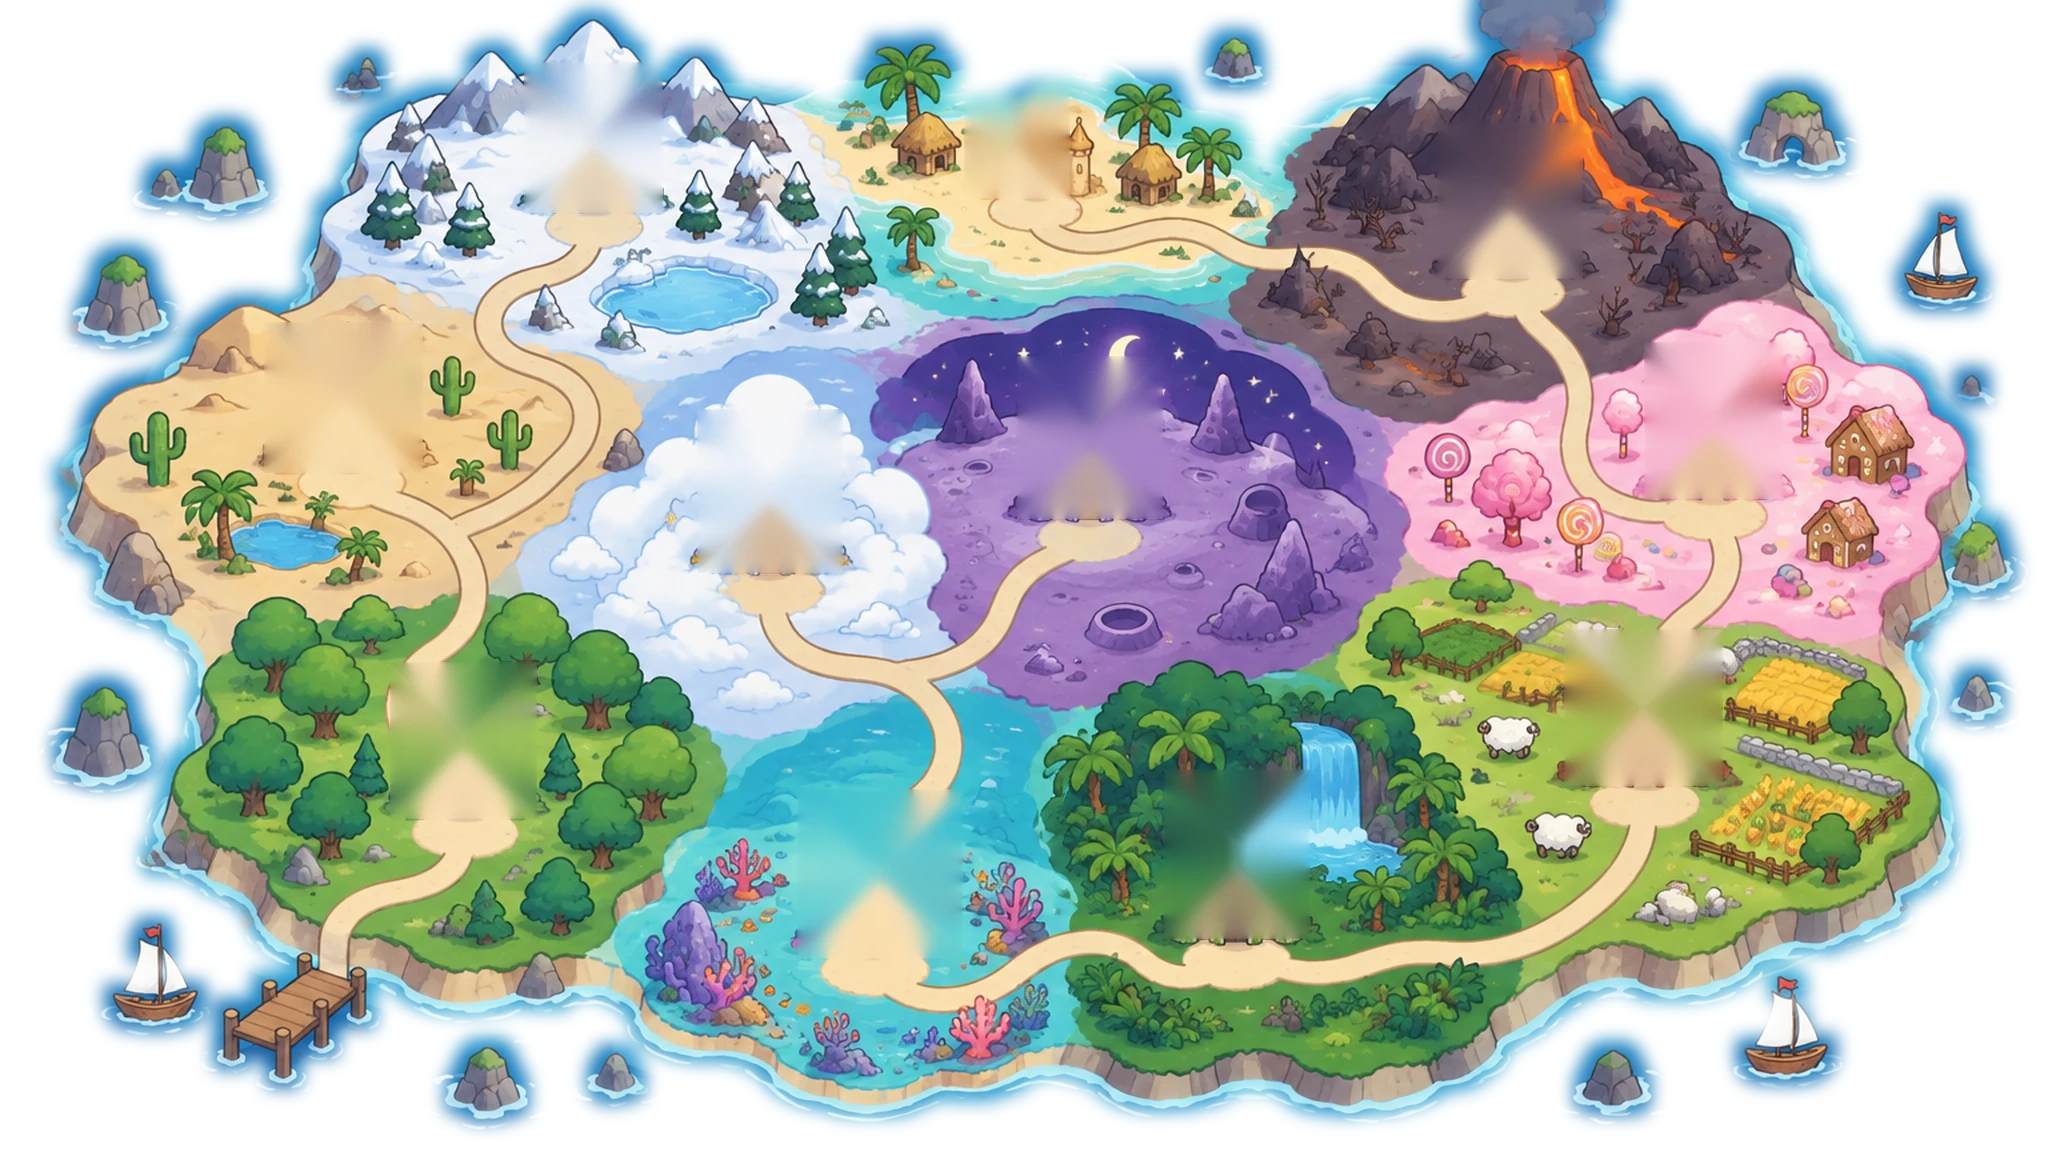
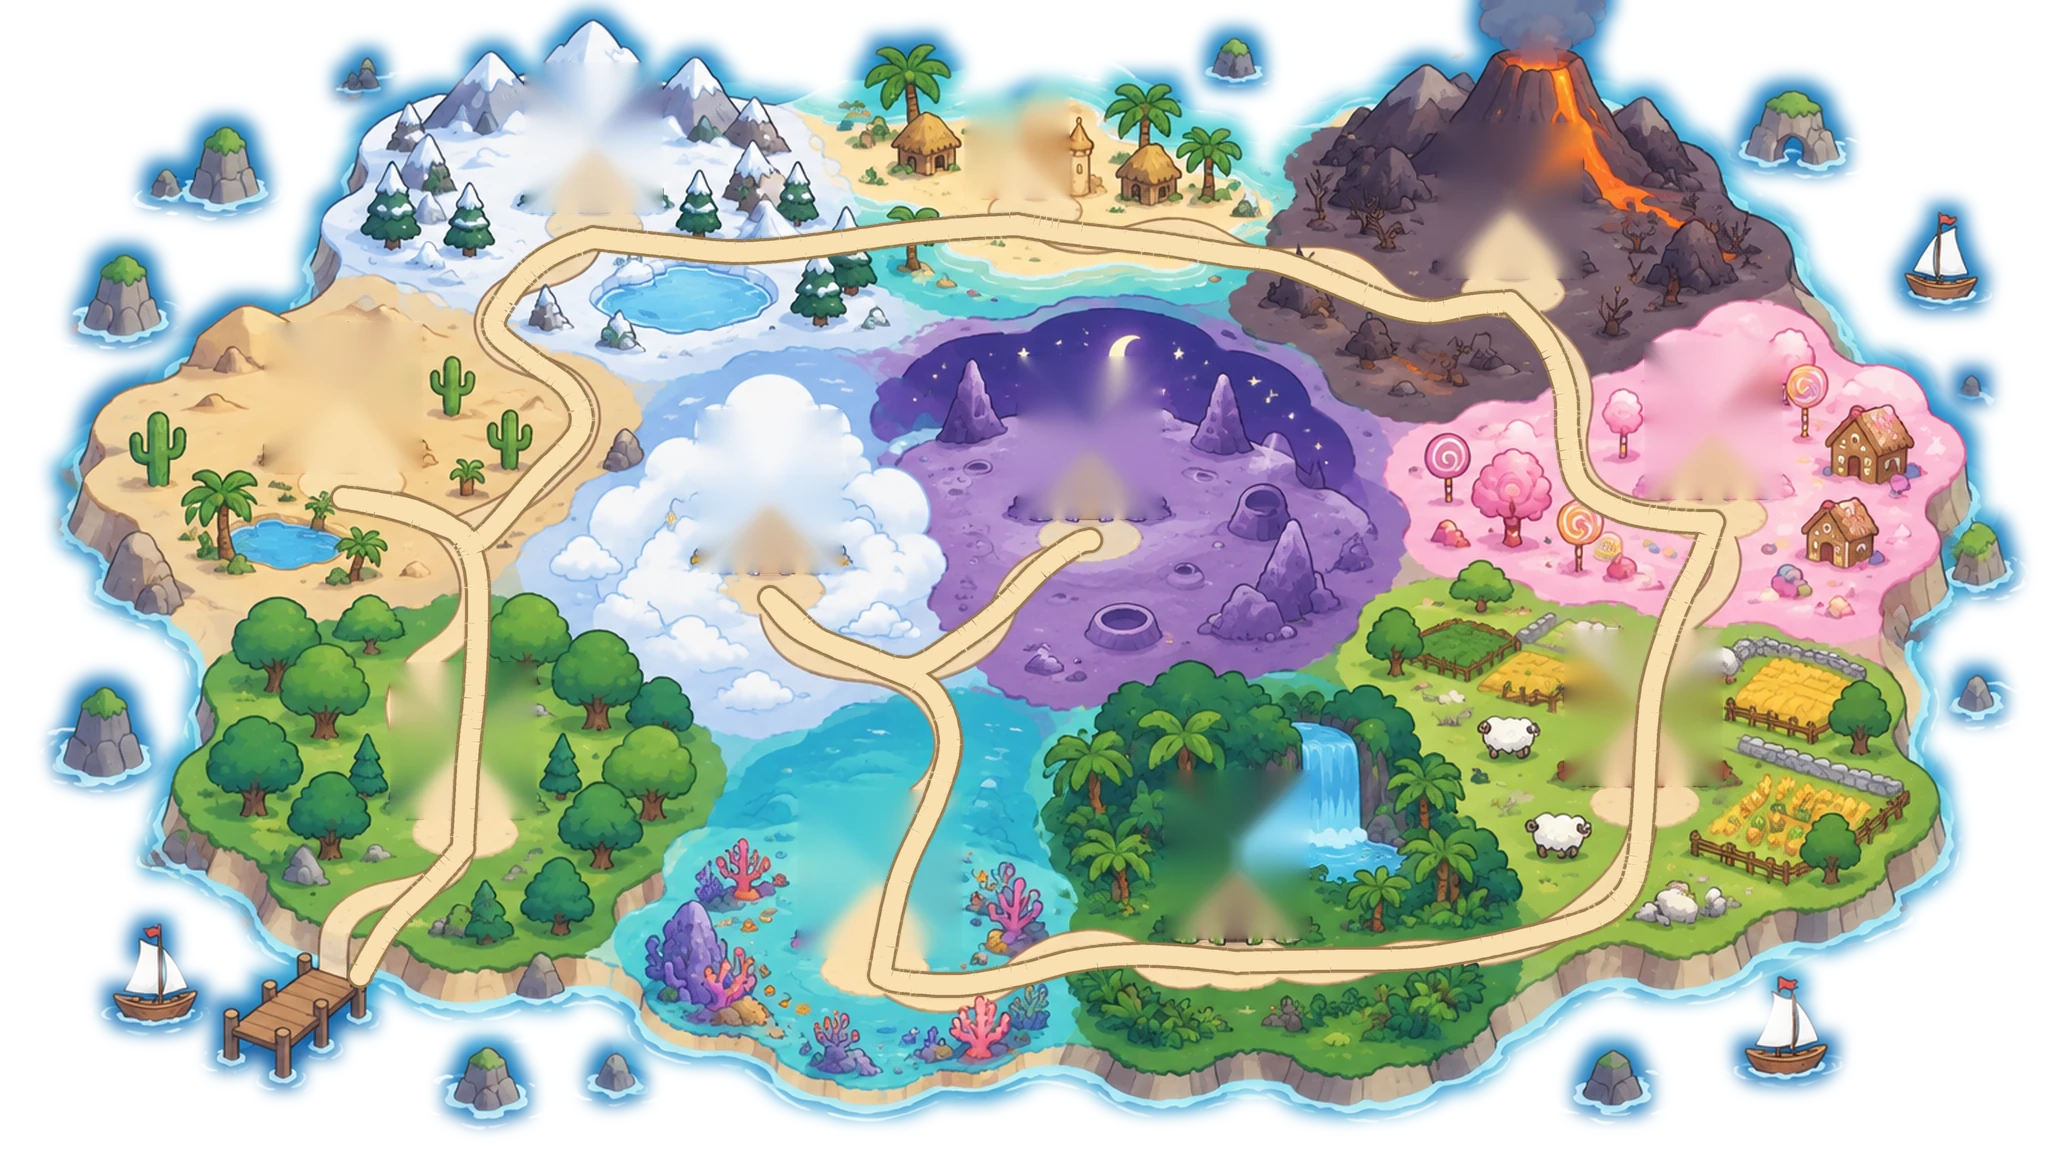
Castelul map: road painted into the island, stone forest castle, farm castle, label variants (preview)
Claude-Session: https://claude.ai/code/session_016fNXyxu9U2zyHjQozgnxy4

diff --git a/src/tower/PaintedMap.tsx b/src/tower/PaintedMap.tsx
@@ -1,7 +1,7 @@
 // Desktop view of the castle lands, built from separate painted pieces (made with Figma AI): the sea
 // fills the screen, the island sits on it and clouds drift at the screen edges. Each land's castle is
-// its own picture (map-castle/<id>.webp) so one can be redrawn without repainting the island. A road
-// runs from the dock through every castle in play order; the stretch already walked is golden.
+// its own picture (map-castle/<id>.webp) so one can be redrawn without repainting the island. The road
+// through every castle in play order is painted into the island (scripts/art/bake_island_road.py).
 
 import { Mascot } from '../components/Mascot'
 import { sfx } from '../sfx'
@@ -21,13 +21,13 @@ type Pt = { x: number; y: number }
 
 /** Where each land's castle stands: x is its middle, y the ground under its gate, w its width. */
 const CASTLE_AT: { x: number; y: number; w: number }[] = [
-  { x: 463, y: 827, w: 191 }, // forest
+  { x: 463, y: 827, w: 222 }, // forest
   { x: 343, y: 480, w: 209 }, // desert
   { x: 593, y: 220, w: 184 }, // snow
   { x: 1016, y: 207, w: 142 }, // beach
   { x: 1510, y: 287, w: 192 }, // volcano
   { x: 1713, y: 507, w: 184 }, // candy
-  { x: 1643, y: 793, w: 209 }, // farm
+  { x: 1643, y: 793, w: 228 }, // farm
   { x: 1236, y: 947, w: 191 }, // jungle
   { x: 880, y: 967, w: 218 }, // sea
   { x: 770, y: 580, w: 192 }, // clouds
@@ -37,63 +37,16 @@ const CASTLE_AT: { x: number; y: number; w: number }[] = [
 /** The name label sits on the road just in front of each castle gate. */
 export const PAINTED_SITES: Pt[] = CASTLE_AT.map((c) => ({ x: c.x, y: c.y + 38 }))
 
-/** The road in play order: from the dock to castle 1, then from each castle to the next. */
-const ROAD: [number, number][][] = [
-  [[360, 975], [390, 925], [430, 885], [463, 848]],
-  [[463, 848], [468, 760], [475, 690], [478, 620], [476, 570], [460, 535], [420, 512], [380, 503], [343, 498]],
-  [[343, 498], [400, 510], [455, 530], [480, 540], [535, 480], [580, 430], [570, 390], [530, 360], [495, 330], [505, 300], [530, 270], [560, 250], [593, 238]],
-  [[593, 238], [660, 245], [740, 252], [820, 245], [890, 235], [960, 228], [1017, 225]],
-  [[1017, 225], [1060, 232], [1110, 238], [1170, 245], [1230, 255], [1280, 262], [1340, 285], [1390, 305], [1430, 312], [1470, 305], [1510, 302]],
-  [[1510, 302], [1545, 340], [1565, 390], [1568, 440], [1580, 485], [1620, 510], [1670, 520], [1713, 522]],
-  [[1713, 522], [1700, 560], [1680, 600], [1665, 640], [1650, 700], [1643, 810]],
-  [[1643, 810], [1638, 860], [1625, 895], [1590, 920], [1510, 942], [1420, 958], [1330, 960], [1237, 962]],
-  [[1237, 962], [1150, 955], [1080, 960], [1020, 975], [960, 985], [900, 982], [880, 975]],
-  [[880, 975], [900, 880], [935, 800], [950, 740], [930, 690], [880, 665], [820, 640], [785, 610], [770, 598]],
-  [[770, 598], [800, 630], [860, 655], [910, 668], [960, 640], [1000, 610], [1040, 570], [1075, 545], [1090, 540]],
-]
-
-/** A smooth line through the points (Catmull-Rom turned into curves). */
-function smooth(pts: [number, number][]): string {
-  let d = `M ${pts[0][0]} ${pts[0][1]}`
-  for (let i = 0; i < pts.length - 1; i++) {
-    const [x0, y0] = pts[Math.max(0, i - 1)]
-    const [x1, y1] = pts[i]
-    const [x2, y2] = pts[i + 1]
-    const [x3, y3] = pts[Math.min(pts.length - 1, i + 2)]
-    const c1 = [x1 + (x2 - x0) / 6, y1 + (y2 - y0) / 6]
-    const c2 = [x2 - (x3 - x1) / 6, y2 - (y3 - y1) / 6]
-    d += ` C ${c1[0].toFixed(1)} ${c1[1].toFixed(1)} ${c2[0].toFixed(1)} ${c2[1].toFixed(1)} ${x2} ${y2}`
-  }
-  return d
-}
-const ROAD_D = ROAD.map(smooth)
-
 /** Painted castles for the map, one picture per land. */
 const MAP_CASTLES = import.meta.glob<string>('./map-castle/*.webp', { eager: true, import: 'default' })
 
 export function PaintedMap({ wins, onPlay }: { wins: string[]; onPlay: (id: string) => void }) {
   const current = MAPS.findIndex((m, i) => mapOpen(wins, i) && !wins.includes(m.id))
-  const reached = current === -1 ? MAPS.length - 1 : current
 
   return (
     <div className="td-island td-painted" style={{ aspectRatio: `${W} / ${H}` }}>
       <img className="td-painted-img" src={islandUrl} alt="" draggable={false} />
       <svg viewBox={`0 0 ${W} ${H}`} className="td-road-svg" aria-hidden>
-        {/* the road: a thin dark edge with sand inside, golden up to the land being played */}
-        {ROAD_D.map((d, i) => (
-          <path key={`e${i}`} d={d} fill="none" stroke="#7a5a3a" strokeWidth="30" strokeLinecap="round" strokeLinejoin="round" />
-        ))}
-        {ROAD_D.map((d, i) => (
-          <path
-            key={`s${i}`}
-            d={d}
-            fill="none"
-            stroke={i <= reached ? '#f6c445' : '#efdfbf'}
-            strokeWidth="23"
-            strokeLinecap="round"
-            strokeLinejoin="round"
-          />
-        ))}
         {MAPS.map((m, i) => {
           const c = CASTLE_AT[i]
           const img = MAP_CASTLES[`./map-castle/${m.id}.webp`]
@@ -121,6 +74,7 @@ export function PaintedMap({ wins, onPlay }: { wins: string[]; onPlay: (id: stri
           >
             <button
               className="td-gate-label"
+              style={{ ['--land' as string]: m.edge }}
               onClick={() => {
                 if (!open) return sfx.wrong()
                 sfx.tap()
@@ -128,7 +82,8 @@ export function PaintedMap({ wins, onPlay }: { wins: string[]; onPlay: (id: stri
               }}
               aria-label={open ? `${i + 1}. ${m.name}${won ? ', câștigată' : ''}` : `${m.name}, încuiată`}
             >
-              {m.name}
+              <span className="td-gate-num">{i + 1}</span>
+              <span className="td-gate-name">{m.name}</span>
               {won && <span className="td-gate-mark td-gate-won">✓</span>}
               {!open && <span className="td-gate-mark">🔒</span>}
             </button>

diff --git a/src/tower/tower.css b/src/tower/tower.css
@@ -1032,3 +1032,171 @@
   background: #22b573;
   color: #fff;
 }
+
+/* ---------- name label variants (preview: .td-painted[data-label=a..e]) ---------- */
+.td-gate-num {
+  display: none;
+}
+.td-gate-label {
+  position: relative;
+}
+
+/* A: wooden sign on a post */
+[data-label='a'] .td-gate-label {
+  background: linear-gradient(#c58b52, #a8703d);
+  border: 3px solid #5c3b1e;
+  border-radius: 8px;
+  color: #fff6e3;
+  text-shadow: 0 2px 0 #5c3b1e;
+  font-size: 16px;
+  padding: 4px 16px;
+  box-shadow: inset 0 2px 0 rgba(255, 255, 255, 0.25), 0 4px 0 #5c3b1e;
+}
+[data-label='a'] .td-gate-label::before,
+[data-label='a'] .td-gate-label::after {
+  content: '';
+  position: absolute;
+  top: 50%;
+  width: 6px;
+  height: 6px;
+  margin-top: -3px;
+  border-radius: 50%;
+  background: #5c3b1e;
+}
+[data-label='a'] .td-gate-label::before {
+  left: 6px;
+}
+[data-label='a'] .td-gate-label::after {
+  right: 6px;
+}
+[data-label='a'] .td-stop-locked .td-gate-label {
+  background: linear-gradient(#b8a48c, #9c8a74);
+  color: #f1ebe2;
+}
+
+/* B: ribbon banner in the land's colour */
+[data-label='b'] .td-gate-label {
+  background: var(--land);
+  border: 3px solid #2b2118;
+  border-radius: 4px;
+  color: #fff;
+  text-shadow: 0 2px 0 rgba(0, 0, 0, 0.35);
+  font-size: 16px;
+  padding: 4px 18px;
+  box-shadow: 0 4px 0 rgba(0, 0, 0, 0.25);
+}
+[data-label='b'] .td-gate-label::before,
+[data-label='b'] .td-gate-label::after {
+  content: '';
+  position: absolute;
+  top: 8px;
+  z-index: -1;
+  width: 22px;
+  height: 100%;
+  background: var(--land);
+  filter: brightness(0.75);
+  border: 3px solid #2b2118;
+}
+[data-label='b'] .td-gate-label::before {
+  left: -16px;
+  clip-path: polygon(0 0, 100% 0, 100% 100%, 0 100%, 40% 50%);
+}
+[data-label='b'] .td-gate-label::after {
+  right: -16px;
+  clip-path: polygon(0 0, 100% 0, 60% 50%, 100% 100%, 0 100%);
+}
+[data-label='b'] .td-stop-locked .td-gate-label,
+[data-label='b'] .td-stop-locked .td-gate-label::before,
+[data-label='b'] .td-stop-locked .td-gate-label::after {
+  background: #b9b0a5;
+  color: #fff;
+}
+
+/* C: parchment scroll */
+[data-label='c'] .td-gate-label {
+  background: #f8ebc8;
+  border: 3px solid #8a6a3e;
+  border-radius: 4px;
+  color: #5a3c1a;
+  font-size: 16px;
+  padding: 4px 22px;
+  box-shadow: 0 3px 0 rgba(90, 60, 26, 0.35);
+}
+[data-label='c'] .td-gate-label::before,
+[data-label='c'] .td-gate-label::after {
+  content: '';
+  position: absolute;
+  top: -5px;
+  bottom: -5px;
+  width: 12px;
+  background: linear-gradient(90deg, #e2c98f, #f8ebc8, #d4b676);
+  border: 3px solid #8a6a3e;
+  border-radius: 8px;
+}
+[data-label='c'] .td-gate-label::before {
+  left: -8px;
+}
+[data-label='c'] .td-gate-label::after {
+  right: -8px;
+}
+[data-label='c'] .td-stop-locked .td-gate-label {
+  color: #9a8a74;
+}
+
+/* D: level number medallion + name */
+[data-label='d'] .td-gate-label {
+  padding: 3px 14px 3px 40px;
+  border-color: var(--land);
+  border-width: 4px;
+  font-size: 16px;
+}
+[data-label='d'] .td-gate-num {
+  display: grid;
+  place-items: center;
+  position: absolute;
+  left: -10px;
+  top: 50%;
+  width: 42px;
+  height: 42px;
+  margin-top: -21px;
+  border-radius: 50%;
+  background: var(--land);
+  border: 3px solid #2b2118;
+  color: #fff;
+  font-size: 20px;
+  text-shadow: 0 2px 0 rgba(0, 0, 0, 0.35);
+}
+[data-label='d'] .td-stop-locked .td-gate-num {
+  background: #b9b0a5;
+}
+
+/* E: carved stone plaque with the number on top */
+[data-label='e'] .td-gate-label {
+  background: linear-gradient(#cfd3d8, #aab0b8);
+  border: 3px solid #4a4f57;
+  border-radius: 14px 14px 10px 10px;
+  color: #2f343b;
+  text-shadow: 0 1px 0 rgba(255, 255, 255, 0.7);
+  font-size: 16px;
+  padding: 10px 16px 4px;
+  box-shadow: 0 4px 0 #4a4f57;
+}
+[data-label='e'] .td-gate-num {
+  display: grid;
+  place-items: center;
+  position: absolute;
+  top: -16px;
+  left: 50%;
+  width: 28px;
+  height: 28px;
+  margin-left: -14px;
+  border-radius: 50%;
+  background: #ffc83d;
+  border: 3px solid #4a4f57;
+  color: #2b2118;
+  font-size: 14px;
+  text-shadow: none;
+}
+[data-label='e'] .td-stop-locked .td-gate-num {
+  background: #d9d4cc;
+}

diff --git a/scripts/art/bake_island_road.py b/scripts/art/bake_island_road.py
@@ -1,0 +1,42 @@
+"""Paint the level road into the Castelul island picture (same look as the painted roads:
+light sand with a thin brown edge). Usage: python3 bake_island_road.py <island.png> <out.png>
+The road points are in island-road.json, in 2048x1152 picture pixels, one list per level."""
+import json, sys, os
+from PIL import Image, ImageDraw, ImageFilter
+
+S = 3  # draw bigger, then shrink, for smooth edges
+
+
+def smooth(pts, steps=16):
+    out = []
+    for i in range(len(pts) - 1):
+        p0, p1, p2 = pts[max(0, i - 1)], pts[i], pts[i + 1]
+        p3 = pts[min(len(pts) - 1, i + 2)]
+        for t in range(steps):
+            t /= steps
+            t2, t3 = t * t, t * t * t
+            out.append(tuple(0.5 * ((2 * p1[k]) + (-p0[k] + p2[k]) * t + (2 * p0[k] - 5 * p1[k] + 4 * p2[k] - p3[k]) * t2
+                                    + (-p0[k] + 3 * p1[k] - 3 * p2[k] + p3[k]) * t3) for k in (0, 1)))
+    out.append(tuple(pts[-1]))
+    return out
+
+
+src, dst = sys.argv[1], sys.argv[2]
+road = json.load(open(os.path.join(os.path.dirname(__file__), 'island-road.json')))
+im = Image.open(src).convert('RGB')
+W, H = im.size
+layer = Image.new('RGBA', (W * S, H * S), (0, 0, 0, 0))
+d = ImageDraw.Draw(layer)
+lines = [[(x * S, y * S) for x, y in smooth(seg)] for seg in road]
+for pts in lines:  # brown edge under everything
+    d.line(pts, fill=(150, 118, 74, 255), width=26 * S, joint='curve')
+    for x, y in (pts[0], pts[-1]):
+        d.ellipse([x - 13 * S, y - 13 * S, x + 13 * S, y + 13 * S], fill=(150, 118, 74, 255))
+for pts in lines:  # sand on top
+    d.line(pts, fill=(249, 224, 178, 255), width=20 * S, joint='curve')
+    for x, y in (pts[0], pts[-1]):
+        d.ellipse([x - 10 * S, y - 10 * S, x + 10 * S, y + 10 * S], fill=(249, 224, 178, 255))
+layer = layer.resize((W, H), Image.LANCZOS).filter(ImageFilter.GaussianBlur(0.4))
+out = im.convert('RGBA')
+out.alpha_composite(layer)
+out.convert('RGB').save(dst)
